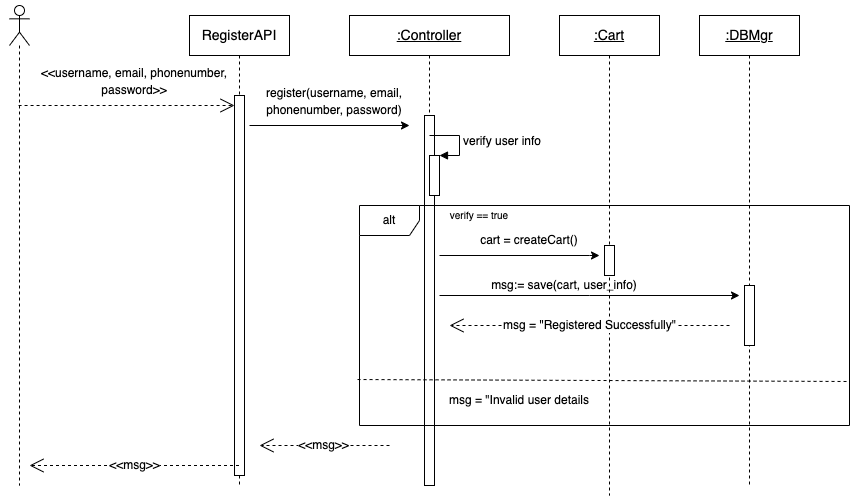
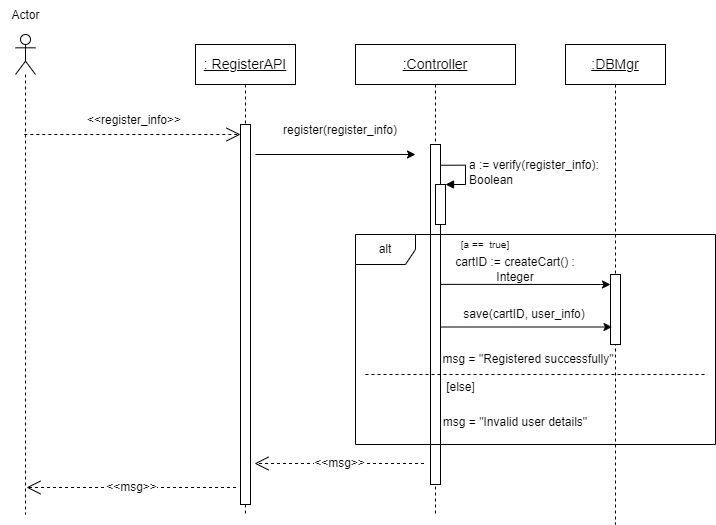
Modified Register Sequence diagram

diff --git a/rent-a-place/src/test/java/com/reservation/rentaplace/Controller/ControllerTest.java b/rent-a-place/src/test/java/com/reservation/rentaplace/Controller/ControllerTest.java
@@ -63,7 +63,7 @@ class ControllerTest {
         cr.setPassword("Garr123");
         cr.setEmail("Garry@gmail.com");
         cr.setPhone_number("967-295-2987");
-        InvalidRequestException exception = assertThrows(InvalidRequestException.class, () -> c.save(cr));
+        InvalidRequestException exception = assertThrows(InvalidRequestException.class, () -> c.register(cr));
         assertEquals("Username cannot exceed the length of 10", exception.getMessage());
     }
 
@@ -76,7 +76,7 @@ class ControllerTest {
         cr.setPassword("Garr123");
         cr.setEmail("Garry.com");
         cr.setPhone_number("967-295-2987");
-        InvalidRequestException exception = assertThrows(InvalidRequestException.class, () -> c.save(cr));
+        InvalidRequestException exception = assertThrows(InvalidRequestException.class, () -> c.register(cr));
         assertEquals("Invalid email id", exception.getMessage());
     }
 
@@ -89,7 +89,7 @@ class ControllerTest {
         cr.setPassword("Garr123");
         cr.setEmail("Garry@gmail.com");
         cr.setPhone_number("967-295-298723");
-        InvalidRequestException exception = assertThrows(InvalidRequestException.class, () -> c.save(cr));
+        InvalidRequestException exception = assertThrows(InvalidRequestException.class, () -> c.register(cr));
         assertEquals("Invalid phone number", exception.getMessage());
     }
     @Test
@@ -101,7 +101,7 @@ class ControllerTest {
         cr.setPassword("");
         cr.setEmail("Garry@gmail.com");
         cr.setPhone_number("967-295-2987");
-        InvalidRequestException exception = assertThrows(InvalidRequestException.class, () -> c.save(cr));
+        InvalidRequestException exception = assertThrows(InvalidRequestException.class, () -> c.register(cr));
         assertEquals("Password cannot empty. Please enter valid password.", exception.getMessage());
     }
     @Test
@@ -115,7 +115,7 @@ class ControllerTest {
         cr.setPhone_number("967-295-2987");
         when(c.getDb().createCart()).thenReturn(1);
         when(c.getDb().save(cr,1)).thenReturn(1);
-        assertEquals(cr.getName()+ " registered successfully.", c.save(cr));
+        assertEquals(cr.getName()+ " registered successfully.", c.register(cr));
     }
 
     @Test
